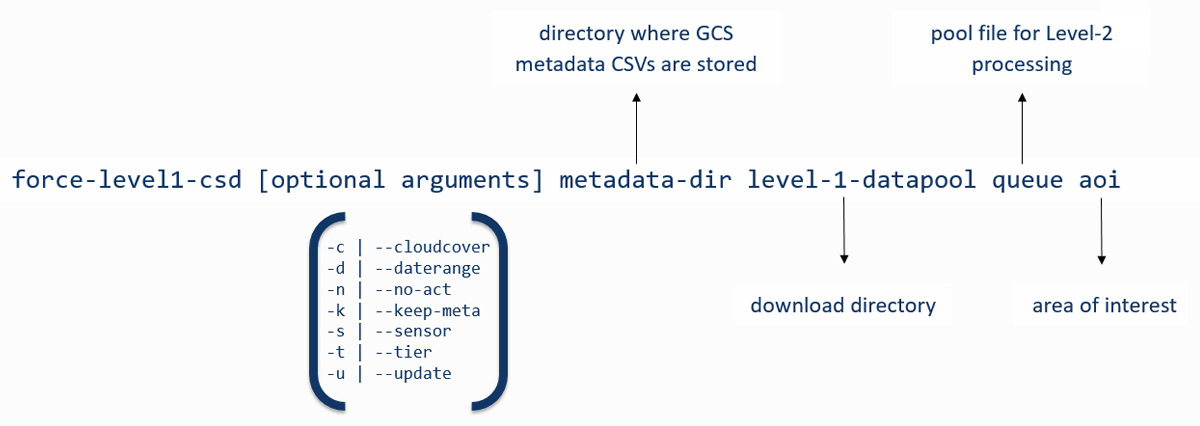
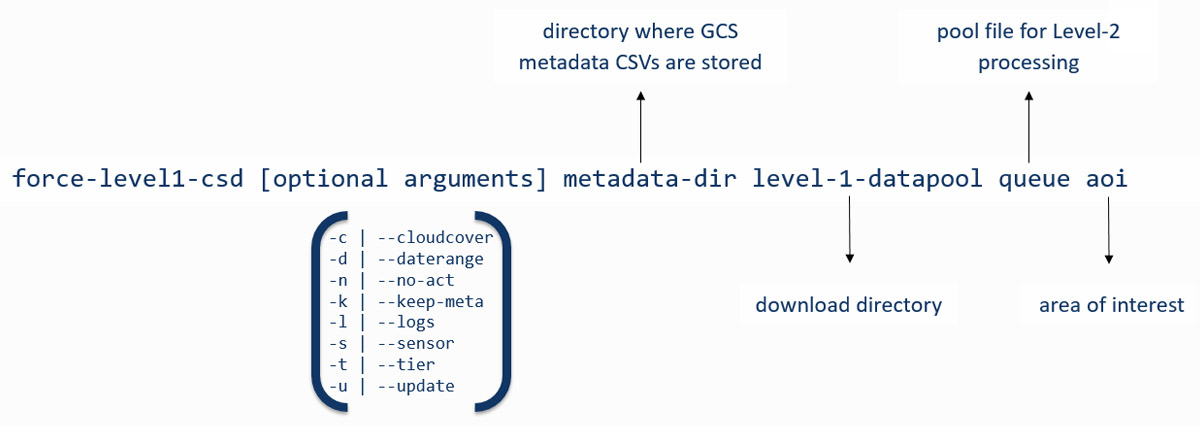
add -l option

diff --git a/docs/source/components/lower-level/level1/level1-csd.rst b/docs/source/components/lower-level/level1/level1-csd.rst
@@ -114,6 +114,11 @@ The remaining optional arguments are used to perform a search without actually d
     | at the same time. Filename: ``csd_metadata_[satellite]_YYYY-MM-DDTHH-MM-SS``
     | ``[satellite]`` refers to either Landsat or Sentinel-2.
 
+* **-l | \--logs**
+    | Check for FORCE Level-2 log files and remove any products from the search
+    | that have been processed previously. Note that this only checks for the
+    | presence of log files, not for actual Level-2 products.
+
 * **-u | \--update**
     | Will create or the metadata catalogue (download and extract from GCS)
     | If this option is used, only one mandatory argument is expected (metadata-dir).

diff --git a/docs/source/howto/level1-csd.rst b/docs/source/howto/level1-csd.rst
@@ -178,6 +178,11 @@ There are two further optional arguments that don't affect the search parameters
   Two files will be created if Landsat and Sentinel-2 data is queried
   at the same time. Filename: csd_metadata_YYYY-MM-DDTHH-MM-SS
 
+  -l | --logs
+  Check for FORCE Level-2 log files and remove any products from the search
+  that have been processed previously. Note that this only checks for the
+  presence of log files, not for actual Level-2 products.
+
 
 .. note::
 
